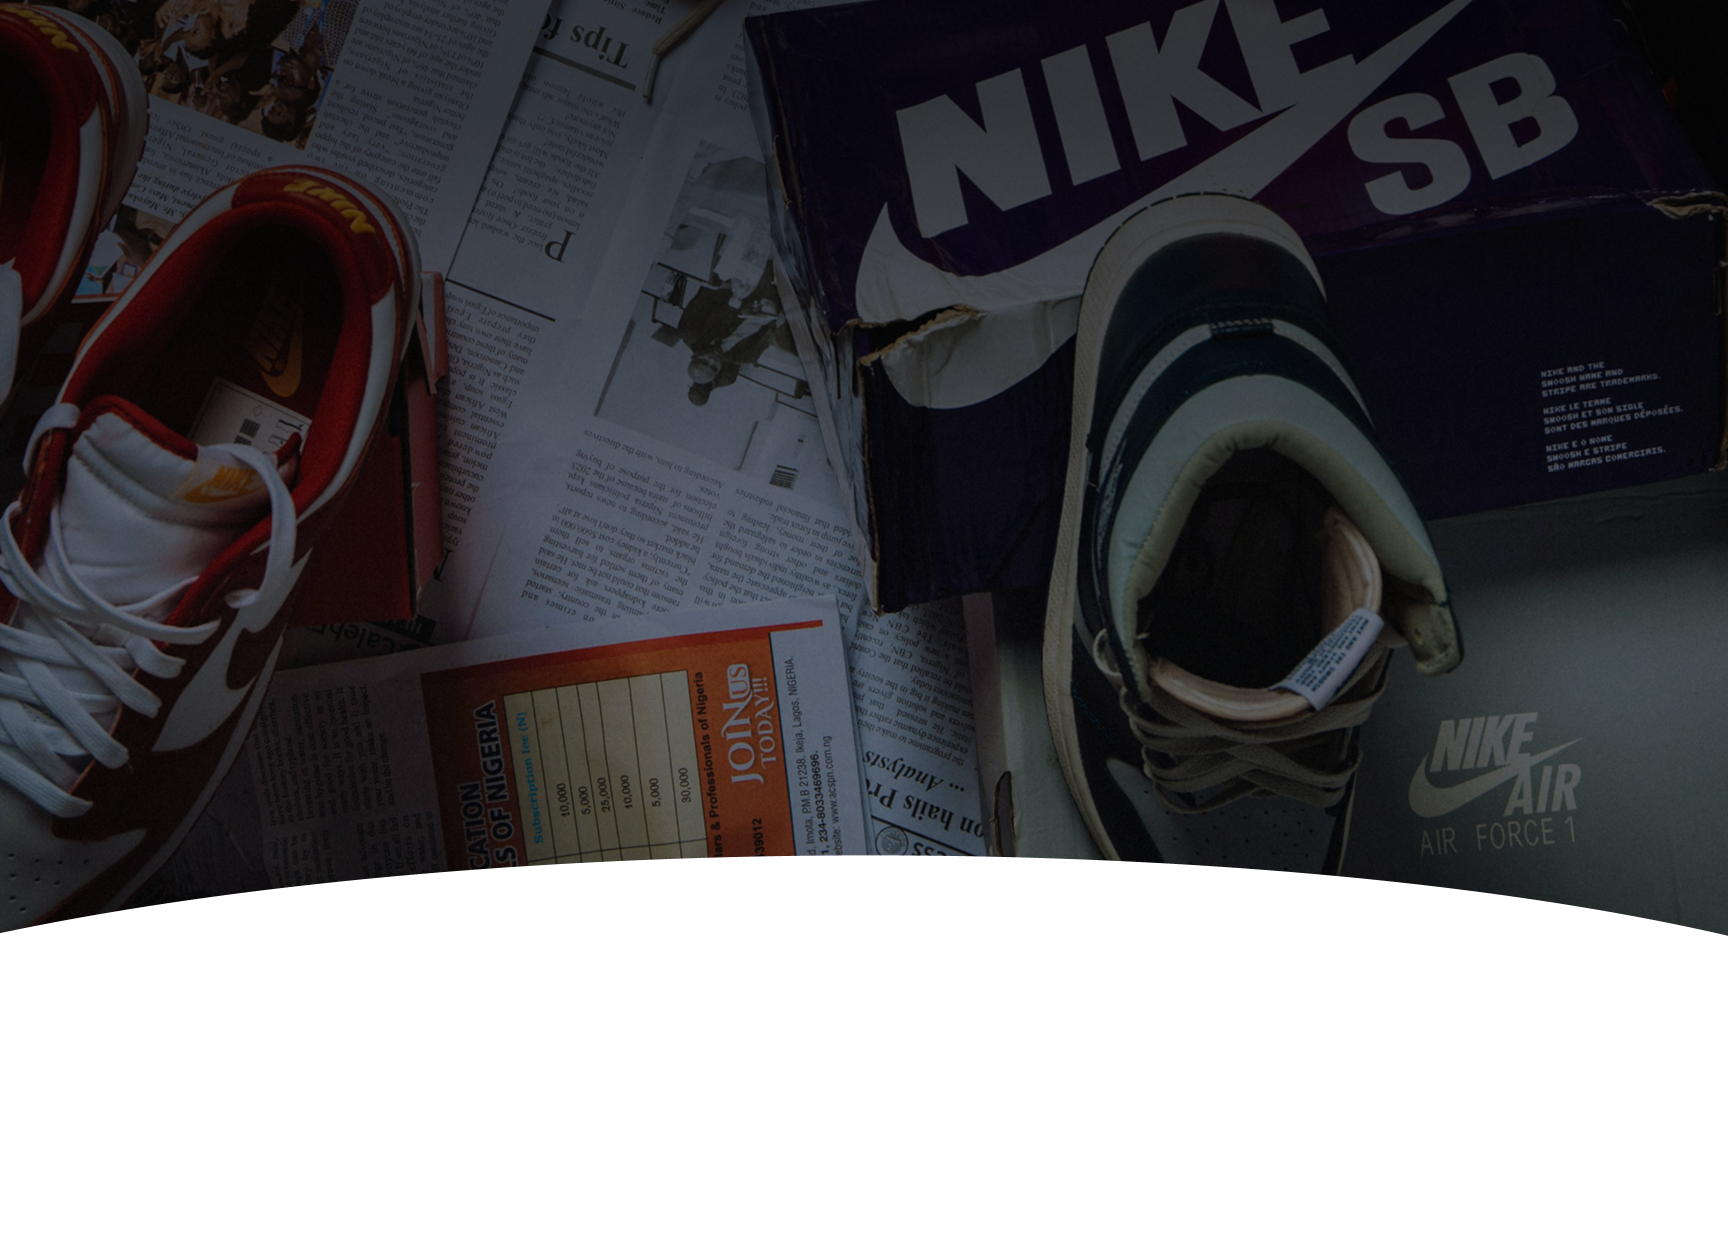
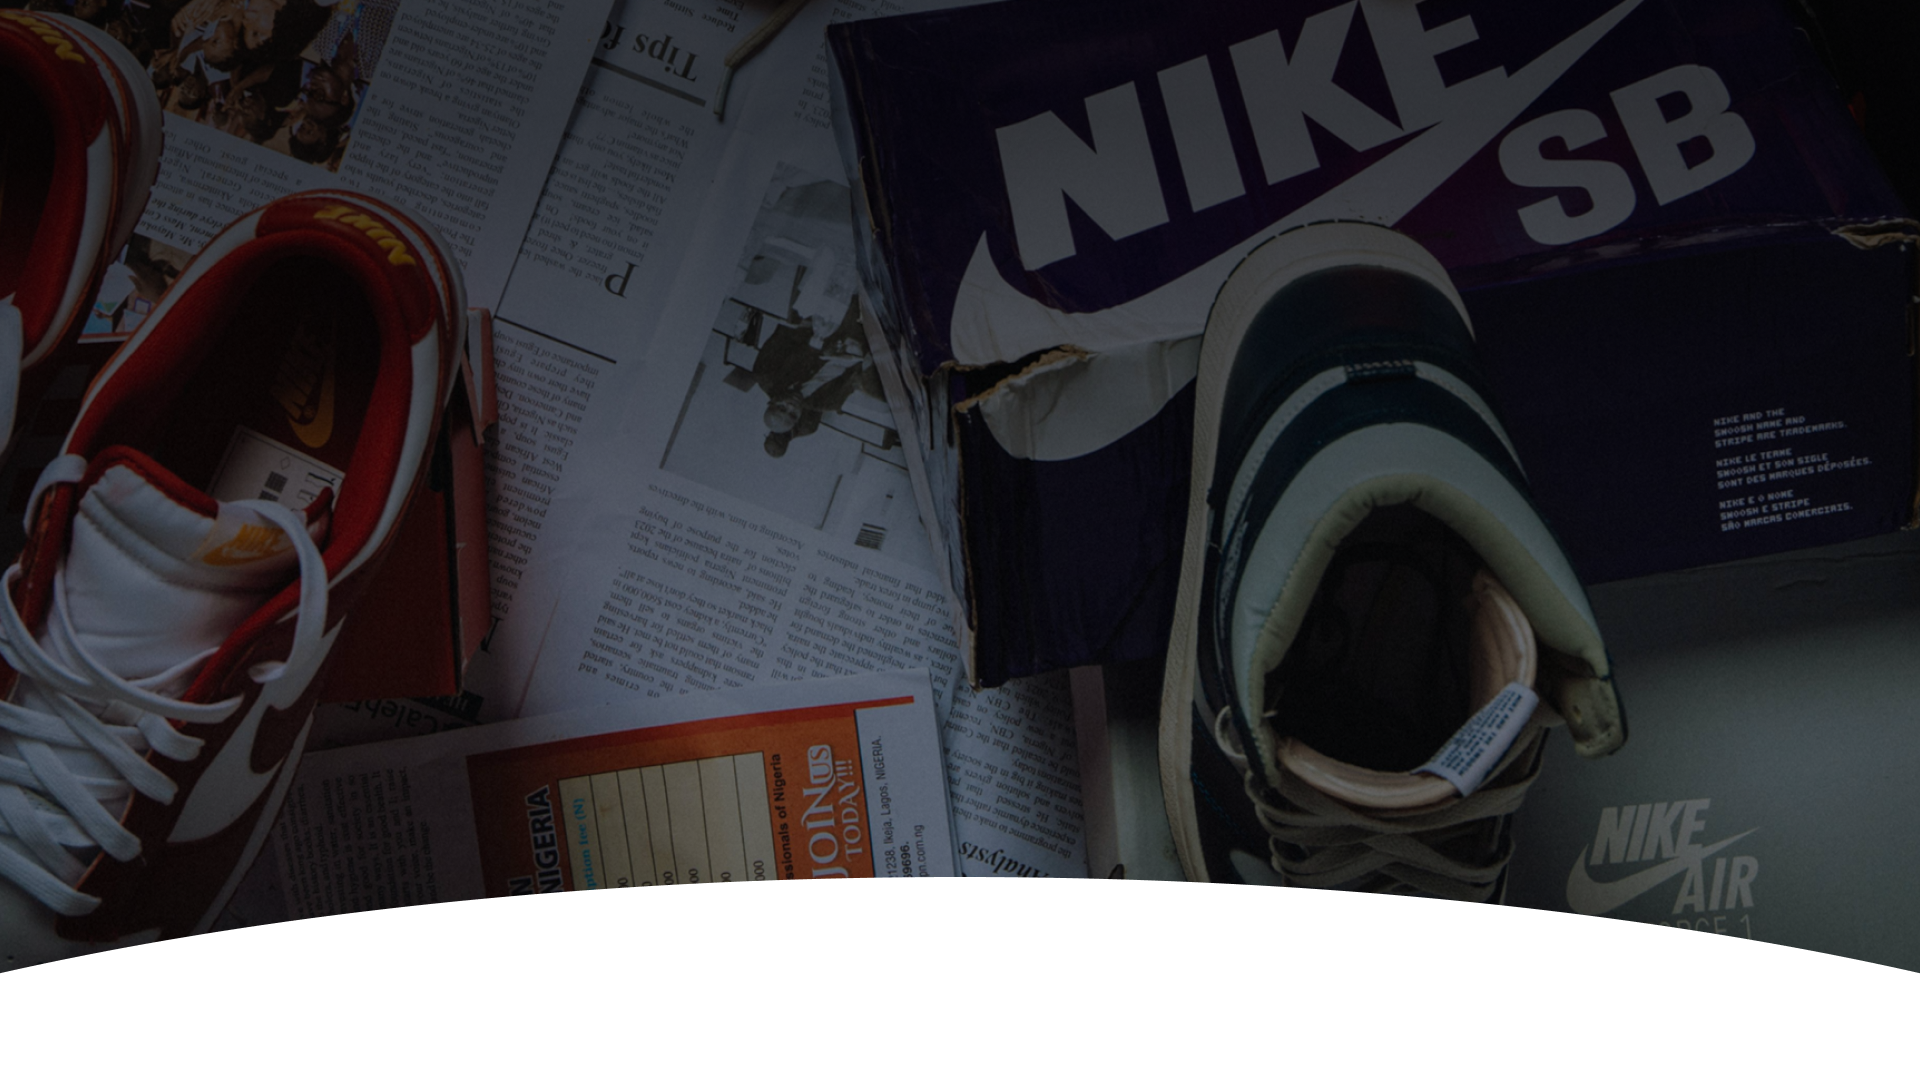
Arrumando foto header

diff --git a/docs/css/index.css b/docs/css/index.css
@@ -15,6 +15,7 @@ body {
     margin: 0;
     padding: 0;
     box-sizing: border-box;
+    overflow-x: hidden;
 }
 
 header {
@@ -23,7 +24,7 @@ header {
     background-position: center;
     background-repeat: no-repeat;
     width: 100%;
-    aspect-ratio: 1920 / 919;
-    position: relative;
+    height: calc(100vw * 9 / 16);
+    max-height: 100vh;
     z-index: -1;
 }
